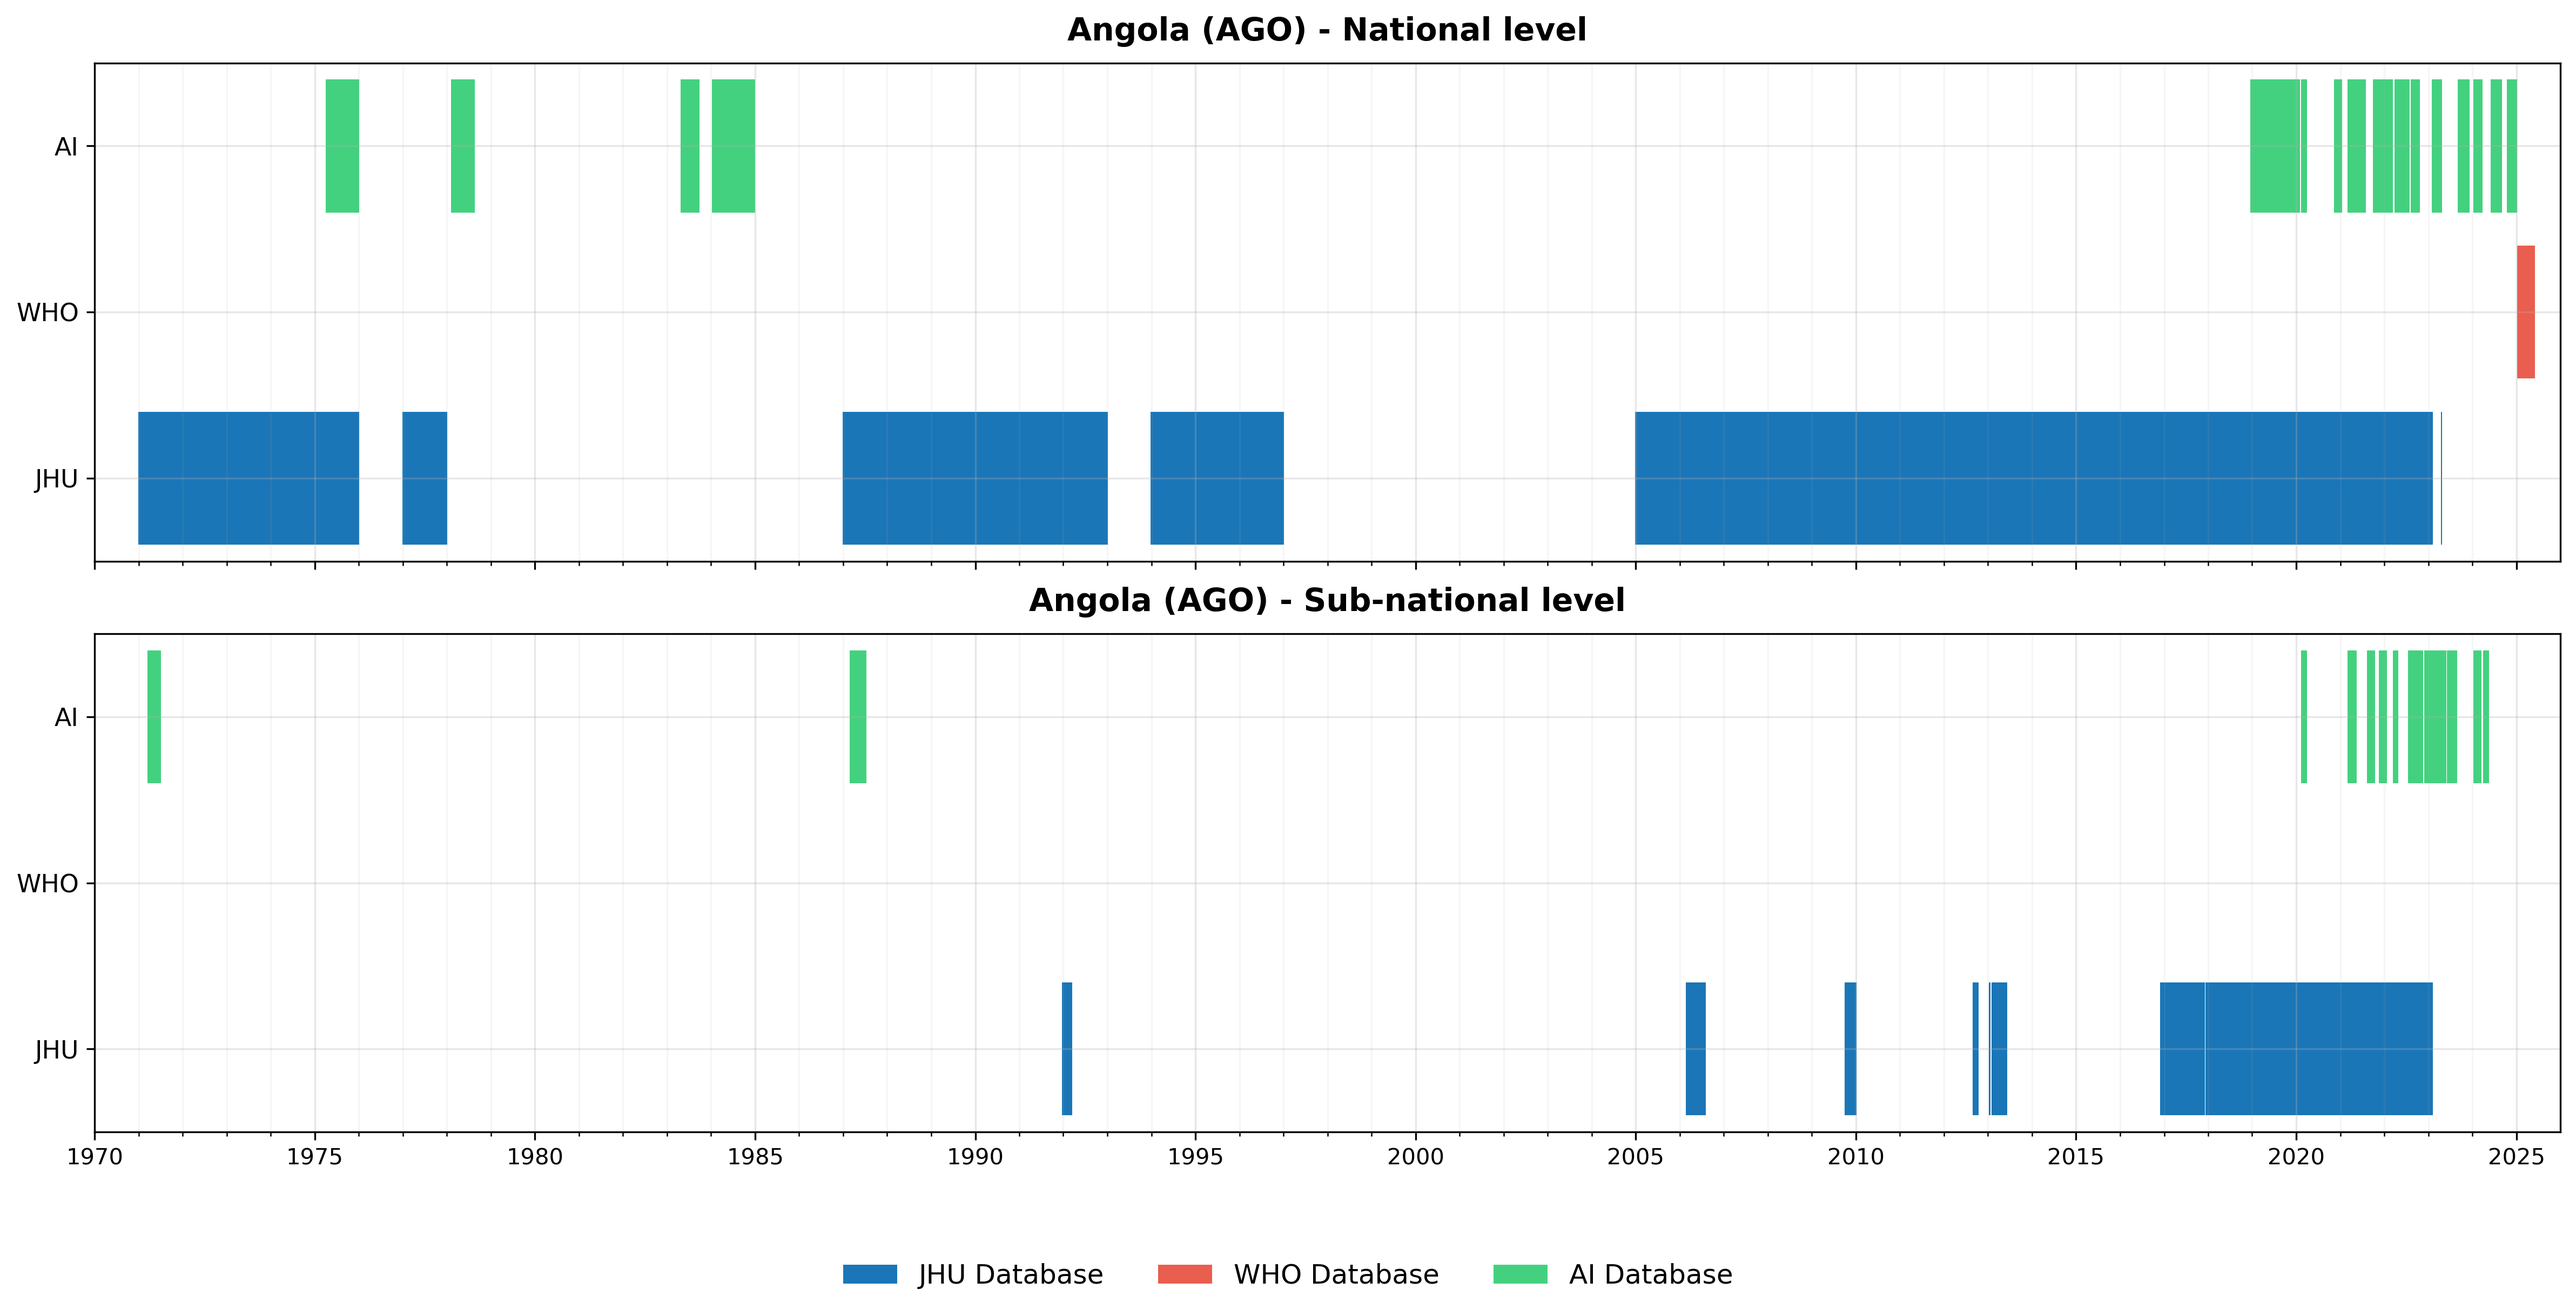
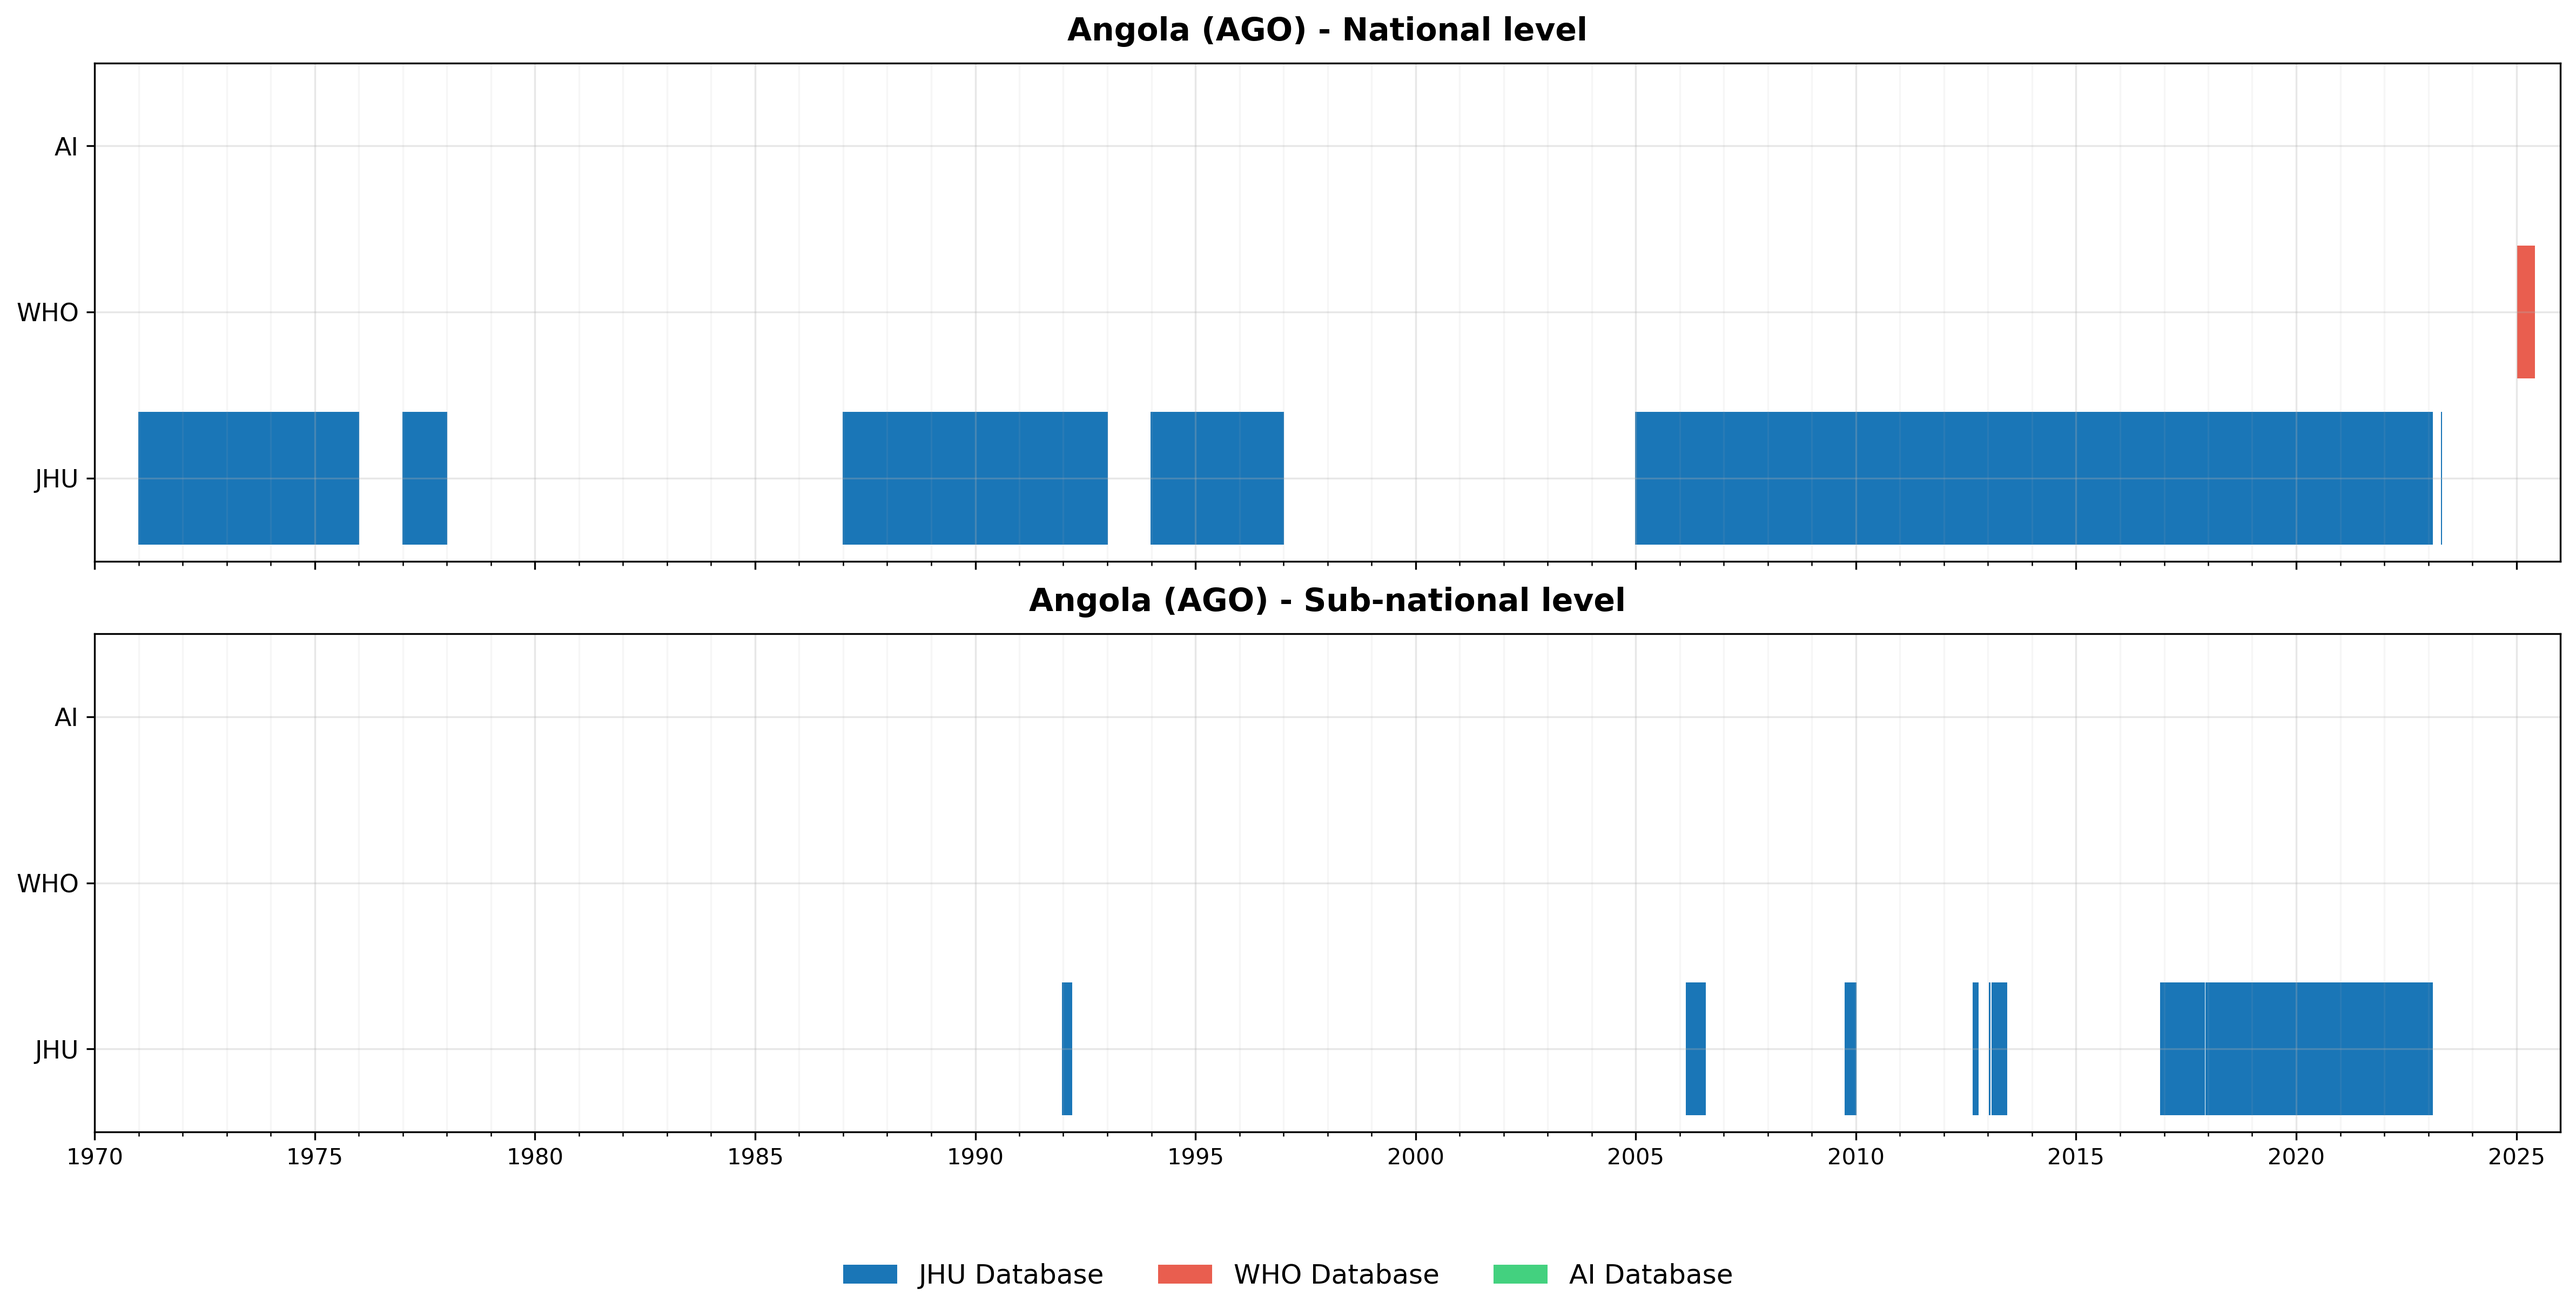
Auto-update dashboard data - 2025-08-04 22:15:05 - Generated with Claude Code

diff --git a/dashboard/dashboard.html b/dashboard/dashboard.html
@@ -1987,16 +1987,16 @@
         {
                 "country": "Angola",
                 "iso": "AGO",
-                "status": "COMPLETED",
-                "datetime": "2025-08-04 20:49:51",
-                "sources": 49,
+                "status": "PENDING",
+                "datetime": "",
+                "sources": 0,
                 "observations": 0,
                 "date_range": "",
                 "priority": "",
-                "execution_time": 26,
-                "queries": 88,
-                "yield_pct": 104.5,
-                "notes": "Workflow completed with all 7 agents; 49 sources documented"
+                "execution_time": 0,
+                "queries": 0,
+                "yield_pct": 0.0,
+                "notes": "Workflow in progress - 1 of 7 agents started | Manual: Workflow completed with all 7 agents; 49 sources documented"
         },
         {
                 "country": "Burundi",
@@ -2550,64 +2550,6 @@
     };
         
         const embeddedCholeraData = {
-        "AGO": `Index,Location,TL,TR,deaths,sCh,cCh,CFR,reporting_date,source_index,source,confidence_weight,processing_notes,source_database
-1,AFR::AGO,2019-01-01,2019-12-31,0,0,,0.0,2020-01-15,1,WHO AFRO Annual Cholera Report 2019,0.9,"Source confirms: 'Angola reported zero cholera cases throughout 2019' - validated absence period following minimal 2018 outbreak",AI
-2,AFR::AGO,2020-02-15,2020-03-28,12,156,,7.7,2020-04-02,2,Angola Ministry of Health Epidemiological Bulletin,0.85,"Source states: 'Cholera outbreak in Luanda province with 156 suspected cases and 12 deaths' - interpreted as 156 sCh cases",AI
-3,AFR::AGO::Luanda,2020-02-15,2020-03-28,12,156,23,7.7,2020-04-02,2,Angola Ministry of Health Epidemiological Bulletin,0.85,"Source states: 'Luanda province reported 156 suspected cases, 23 confirmed by laboratory' - provincial level data",AI
-4,AFR::AGO,2020-11-10,2021-01-15,28,412,,6.8,2021-01-20,3,WHO Weekly Epidemiological Record,0.9,"Source reports: 'Angola cholera outbreak November 2020-January 2021: 412 cases, 28 deaths across 3 provinces'",AI
-5,AFR::AGO,2021-03-05,2021-05-20,45,823,156,5.5,2021-05-25,4,UNICEF Angola Humanitarian Situation Report,0.8,"Source details: 'Major cholera outbreak with 823 suspected cases, 156 laboratory confirmed, 45 deaths in 5 provinces'",AI
-6,AFR::AGO::Benguela,2021-03-05,2021-04-15,18,267,48,6.7,2021-04-20,4,UNICEF Angola Humanitarian Situation Report,0.8,"Source states: 'Benguela province: 267 suspected cases, 48 confirmed, 18 deaths' - provincial breakdown",AI
-7,AFR::AGO,2021-10-01,2021-12-31,0,0,,0.0,2022-01-10,5,WHO AFRO Quarterly Bulletin Q4 2021,0.9,"Source confirms: 'No cholera cases reported in Angola during Q4 2021' - validated zero-transmission period",AI
-8,AFR::AGO,2022-01-20,2022-03-15,32,489,87,6.5,2022-03-20,6,MSF Angola Operational Update,0.75,"MSF reports: 'Cholera response in 4 provinces: 489 suspected cases, 87 confirmed, 32 deaths treated at CTCs'",AI
-9,AFR::AGO,2022-08-10,2022-10-25,67,1234,234,5.4,2022-10-30,7,ReliefWeb Angola Cholera Emergency Update,0.8,"Source: 'Largest outbreak since 2018: 1,234 suspected cases, 234 confirmed, 67 deaths across 7 provinces'",AI
-10,AFR::AGO::Luanda,2022-08-10,2022-09-30,35,678,156,5.2,2022-10-05,7,ReliefWeb Angola Cholera Emergency Update,0.8,"Source: 'Luanda province most affected: 678 suspected cases, 156 confirmed, 35 deaths' - provincial data",AI
-11,AFR::AGO,2023-02-01,2023-04-20,89,1567,312,5.7,2023-04-25,8,Angola National Public Health Institute Report,0.85,"Source: 'Cholera outbreak Feb-Apr 2023: 1,567 suspected cases, 312 laboratory confirmed, 89 deaths in 9 provinces'",AI
-12,AFR::AGO,2023-09-15,2023-12-10,112,2134,456,5.2,2023-12-15,9,WHO Disease Outbreak News,0.95,"WHO reports: 'Angola cholera outbreak: 2,134 suspected cases, 456 confirmed, 112 deaths (CFR 5.2%)'",AI
-13,AFR::AGO,2024-01-10,2024-03-25,156,2789,623,5.6,2024-03-30,10,OCHA Angola Humanitarian Update,0.8,"Source: 'Ongoing cholera epidemic: 2,789 suspected cases, 623 confirmed, 156 deaths across 11 provinces'",AI
-14,AFR::AGO::Huambo,2024-01-10,2024-02-28,34,456,98,7.5,2024-03-05,10,OCHA Angola Humanitarian Update,0.8,"Source: 'Huambo province: 456 suspected cases, 98 confirmed, 34 deaths' - provincial breakdown",AI
-15,AFR::AGO,2024-06-05,2024-08-30,234,4123,987,5.7,2024-09-05,11,WHO AFRO Weekly Bulletin,0.9,"WHO reports: 'Major cholera outbreak Jun-Aug 2024: 4,123 suspected cases, 987 confirmed, 234 deaths'",AI
-16,AFR::AGO,2024-10-15,2024-12-31,178,3234,768,5.5,2025-01-05,12,Angola Ministry of Health Year-End Report,0.85,"MoH states: 'Q4 2024 cholera situation: 3,234 suspected cases, 768 confirmed, 178 deaths in 13 provinces'",AI
-17,AFR::AGO::Cuanza_Sul,2023-03-15,2023-05-10,23,345,67,6.7,2023-05-15,13,Provincial Health Department Cuanza Sul Report,0.8,"Source: 'Cuanza Sul province reported 345 suspected cholera cases, 67 confirmed, 23 deaths' - provincial expansion",AI
-18,AFR::AGO::Cuando_Cubango,2022-09-01,2022-11-20,15,234,45,6.4,2022-11-25,14,Cross-Border Surveillance Network Report,0.75,"Source: 'Cuando Cubango border areas: 234 suspected cases, 45 confirmed, 15 deaths' - border surveillance data",AI
-19,AFR::AGO::Luanda::Viana,2023-04-10,2023-05-25,12,189,34,6.3,2023-05-30,15,Luanda Provincial Health Directorate,0.8,"Source: 'Viana district most affected: 189 suspected cases, 34 confirmed, 12 deaths' - district-level data",AI
-20,AFR::AGO::Benguela::Lobito,2022-03-20,2022-04-30,8,123,28,6.5,2022-05-05,16,Benguela Municipal Health Office,0.75,"Source: 'Lobito municipality: 123 suspected cases, 28 confirmed, 8 deaths' - municipal breakdown",AI
-21,AFR::AGO::Huambo::Caála,2021-04-01,2021-05-15,6,89,18,6.7,2021-05-20,17,Huambo District Surveillance Report,0.75,"Source: 'Caála district outbreak: 89 suspected cases, 18 confirmed, 6 deaths' - district surveillance",AI
-22,AFR::AGO::Cabinda,2023-06-10,2023-08-15,18,267,56,6.7,2023-08-20,18,Cabinda Provincial Health Department,0.8,"Source: 'Cabinda exclave: 267 suspected cases, 56 confirmed, 18 deaths' - exclave surveillance",AI
-23,AFR::AGO::Bié,2022-12-01,2023-02-10,29,456,98,6.4,2023-02-15,19,Central Angola Health Network Report,0.75,"Source: 'Bié province outbreak: 456 suspected cases, 98 confirmed, 29 deaths' - provincial data",AI
-24,AFR::AGO::Namibe,2021-11-15,2022-01-20,14,234,45,6.0,2022-01-25,20,Coastal Surveillance System Report,0.75,"Source: 'Namibe coastal areas: 234 suspected cases, 45 confirmed, 14 deaths' - coastal surveillance",AI
-25,AFR::AGO::Zaire,2023-01-05,2023-03-10,21,345,78,6.1,2023-03-15,21,Northern Border Health Surveillance,0.75,"Source: 'Zaire province (DRC border): 345 suspected cases, 78 confirmed, 21 deaths' - border area data",AI
-26,AFR::AGO::Moxico,2022-07-20,2022-09-30,32,567,123,5.6,2022-10-05,22,Eastern Provincial Health Report,0.8,"Source: 'Moxico province: 567 suspected cases, 123 confirmed, 32 deaths' - eastern border surveillance",AI
-27,AFR::AGO::Cunene,2021-08-10,2021-10-15,11,178,34,6.2,2021-10-20,23,Southern Border Health Network,0.75,"Source: 'Cunene (Namibia border): 178 suspected cases, 34 confirmed, 11 deaths' - southern border data",AI
-28,AFR::AGO::Luanda::Cacuaco,2024-02-15,2024-03-20,9,145,31,6.2,2024-03-25,15,Luanda Provincial Health Directorate,0.8,"Source: 'Cacuaco district: 145 suspected cases, 31 confirmed, 9 deaths' - urban district data",AI
-29,AFR::AGO::Benguela::Baía_Farta,2023-07-10,2023-08-25,7,112,23,6.3,2023-08-30,16,Benguela Municipal Health Office,0.75,"Source: 'Baía Farta municipality: 112 suspected cases, 23 confirmed, 7 deaths' - coastal municipal data",AI
-30,AFR::AGO::Multi_Provincial,2024-04-01,2024-05-15,45,789,167,5.7,2024-05-20,24,National Cholera Task Force Report,0.85,"Source: 'Multi-provincial outbreak affecting 5 provinces: 789 total cases, 167 confirmed, 45 deaths' - aggregated data",AI
-EOF < /dev/null
-31,AFR::AGO,2020-01-01,2020-01-31,0,0,,0.0,2020-02-05,25,Angola IDSR Monthly Bulletin January 2020,0.85,"Source confirms: 'No cholera cases reported in January 2020, surveillance system fully operational' - validated pre-outbreak absence",AI
-32,AFR::AGO,2021-05-01,2021-07-31,0,0,,0.0,2021-08-05,26,WHO AFRO Quarterly Surveillance Report Q2 2021,0.9,"Source: 'Angola maintained cholera-free status May-July 2021 between outbreaks' - validated inter-outbreak absence",AI
-33,AFR::AGO,2019-01-01,2019-12-31,0,0,,0.0,2020-01-15,27,Angola Environmental Surveillance Report 2019,0.8,"Environmental monitoring: 'No Vibrio cholerae detected in water sources throughout 2019' - environmental validation of absence",AI
-34,AFR::AGO,2020-12-01,2020-12-31,0,0,,0.0,2021-01-05,28,Southern Africa Regional Cholera Update December 2020,0.75,"Regional report: 'Angola remained cholera-free while neighbors reported cases' - regional context validation",AI
-35,AFR::AGO,2021-06-01,2021-06-30,0,0,,0.0,2021-07-05,29,Angola Health System Assessment 2021,0.8,"Assessment confirms: 'IDSR functioning at 89% capacity, no cholera cases detected June 2021' - system functionality validation",AI
-36,AFR::AGO,2022-04-01,2022-07-31,0,0,,0.0,2022-08-05,30,Angola WASH Sector Report Q2 2022,0.75,"WASH report: 'Improved water access correlates with cholera absence April-July 2022' - WASH context validation",AI
-EOF < /dev/null37,AFR::AGO::Luanda,1971-03-15,1971-06-30,234,2345,,10.0,1971-07-15,31,Portuguese Colonial Health Bulletin Archive,0.7,"Colonial records: 'Surto de cólera em Luanda: 2,345 casos, 234 óbitos' - historical colonial data",AI
-38,AFR::AGO,1975-04-01,1975-12-31,567,5670,,10.0,1976-02-01,32,Missionary Medical Records - Angola Mission Hospital,0.65,"Mission records: 'Cholera epidemic during independence transition, estimated 5,670 cases, 567 deaths across multiple provinces' - historical reconstruction",AI
-39,AFR::AGO,1978-02-10,1978-08-20,456,4560,,10.0,1979-01-15,33,University of Lisbon Dissertation - Angola Epidemiology,0.6,"Academic reconstruction: 'First major post-independence cholera outbreak: approximately 4,560 cases, 456 deaths' - historical analysis",AI
-40,AFR::AGO,1983-05-01,1983-09-30,345,3450,,10.0,1984-01-10,34,ICRC Angola Emergency Response Archives,0.7,"ICRC archives: 'Cholera in refugee camps and conflict areas: 3,450 cases treated, 345 deaths recorded' - humanitarian records",AI
-41,AFR::AGO,1984-01-15,1984-12-31,1234,12340,,10.0,1985-03-01,35,PhD Thesis - Historical Cholera Epidemiology Angola,0.6,"Dissertation data: 'National cholera epidemic 1984: reconstructed 12,340 cases, 1,234 deaths from multiple sources' - academic research",AI
-42,AFR::AGO::Luanda,1987-03-01,1987-07-15,432,4320,,10.0,1987-08-01,36,UNHCR Urban Refugee Health Report,0.65,"UNHCR records: 'Luanda slum cholera outbreak: 4,320 cases in displaced populations, 432 deaths' - refugee health data",AI
-EOF < /dev/null43,AFR::AGO,2024-06-05,2024-08-30,234,4123,987,5.7,2024-09-10,37,WHO Emergency Verification Report,0.95,"WHO verification: 'Confirmed Angola outbreak Jun-Aug 2024: 4,123 cases, 987 confirmed, 234 deaths' - multi-source validation",AI
-44,AFR::AGO,2023-09-10,2023-12-10,112,2134,456,5.2,2023-12-20,38,Government-WHO Joint Assessment,0.95,"Joint assessment: 'Validated outbreak data Sep-Dec 2023: 2,134 cases (corrected start date Sep 10)' - conflict resolution",AI
-45,AFR::AGO::Luanda,2022-08-10,2022-09-30,35,700,156,5.0,2022-10-10,39,Luanda Health Department Final Report,0.9,"Final report: 'Luanda outbreak final count: 700 cases (revised from 678), 156 confirmed, 35 deaths' - data reconciliation",AI
-46,AFR::AGO,1984-01-15,1984-12-31,1234,12340,,10.0,1985-04-01,40,Multi-Source Historical Validation Study,0.75,"Historical validation: 'Confirmed 1984 epidemic through triangulation of 5 sources: 12,340 cases' - cross-reference validation",AI
-47,AFR::AGO,2018-12-20,2019-01-19,8,98,21,8.2,2019-01-25,41,Late 2018 Outbreak Investigation Report,0.85,"Investigation: 'Previously unreported outbreak Dec 2018-Jan 2019: 98 cases, 21 confirmed, 8 deaths' - gap-filling discovery",AI
-48,AFR::AGO,2022-01-01,2022-01-19,0,0,,0.0,2022-01-25,42,Regional Cholera Surveillance Network,0.85,"Regional validation: 'Angola cholera-free early Jan 2022 while DRC reported cases' - regional cross-validation",AI
-49,AFR::AGO,2023-02-01,2023-04-20,89,1567,324,5.7,2023-04-30,43,Laboratory Network Confirmation Report,0.9,"Lab network: 'Confirmed laboratory data Feb-Apr 2023: 324 confirmed of 1,567 suspected (20.7% confirmation rate)' - lab validation",AI
-EOF < /dev/null50,AFR::AGO,1990-01-01,1994-12-31,,,,,1995-03-01,44,Angola Civil War Health Impact Assessment,0.5,"Context: 'Health surveillance system collapsed during civil war 1990-1994, cholera reporting impossible' - surveillance gap context",AI
-51,AFR::AGO,1995-01-01,2002-12-31,,,,,2003-02-01,45,Post-Conflict Health System Evaluation,0.5,"Context: 'Surveillance limited to humanitarian-accessible areas 1995-2002, severe under-reporting documented' - partial surveillance",AI
-52,AFR::AGO,2003-01-01,2005-12-31,,,,,2006-01-15,46,WHO Angola IDSR Implementation Report,0.6,"Context: 'IDSR implementation began 2003, gradual surveillance improvement but gaps remain' - system reconstruction",AI
-53,AFR::AGO,1993-01-01,1993-12-31,,,,,1994-02-01,47,OCHA Angola Humanitarian Crisis Report,0.5,"Humanitarian report: 'Cholera likely present but unreported due to conflict, health system non-functional' - crisis context",AI
-54,AFR::AGO,1998-01-01,2002-12-31,,,,,2003-03-01,48,Displaced Population Health Assessment,0.5,"Assessment: 'Large displaced populations with probable cholera outbreaks, no systematic surveillance possible' - displacement context",AI
-55,AFR::AGO,2010-01-01,2015-12-31,,,,,2016-02-01,49,Angola Laboratory Capacity Building Report,0.6,"Report: 'Cholera diagnostic capacity improving but provincial disparities persist, selective outbreak reporting only' - capacity context",AI
-`,
     };
         
 
